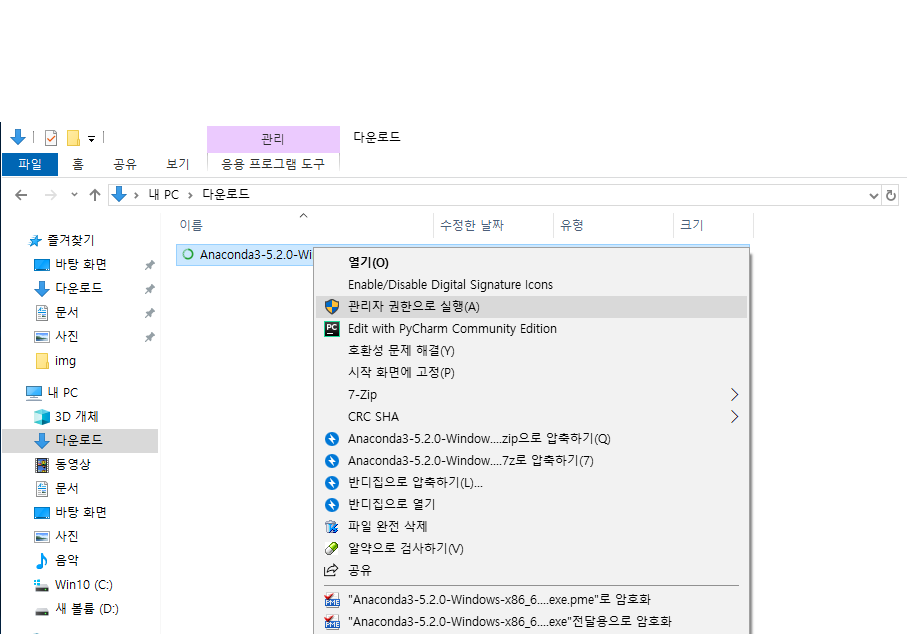
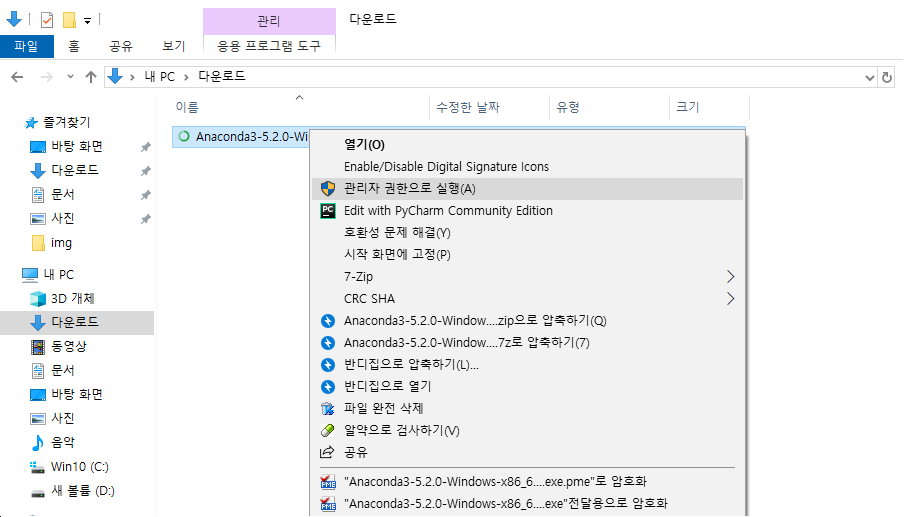
modified file

diff --git a/_posts/2020-02-05-anaconda#2.md b/_posts/2020-02-05-anaconda#2.md
@@ -37,7 +37,7 @@ __아나콘다 설치__
 
 <p>1. 설치 파일 다운 후, 파일을 오른쪽 마우스로 클릭한 후 관리자 권한으로 실행 선택</p>
 
-![2 6-00](https://user-images.githubusercontent.com/47733530/73904228-b3850400-48de-11ea-9234-5381ee63c7ad.png)
+![2 6-00](https://user-images.githubusercontent.com/47733530/73904624-fa272e00-48df-11ea-8c2c-bd9e0128df4a.png)
 
 <br>
 
